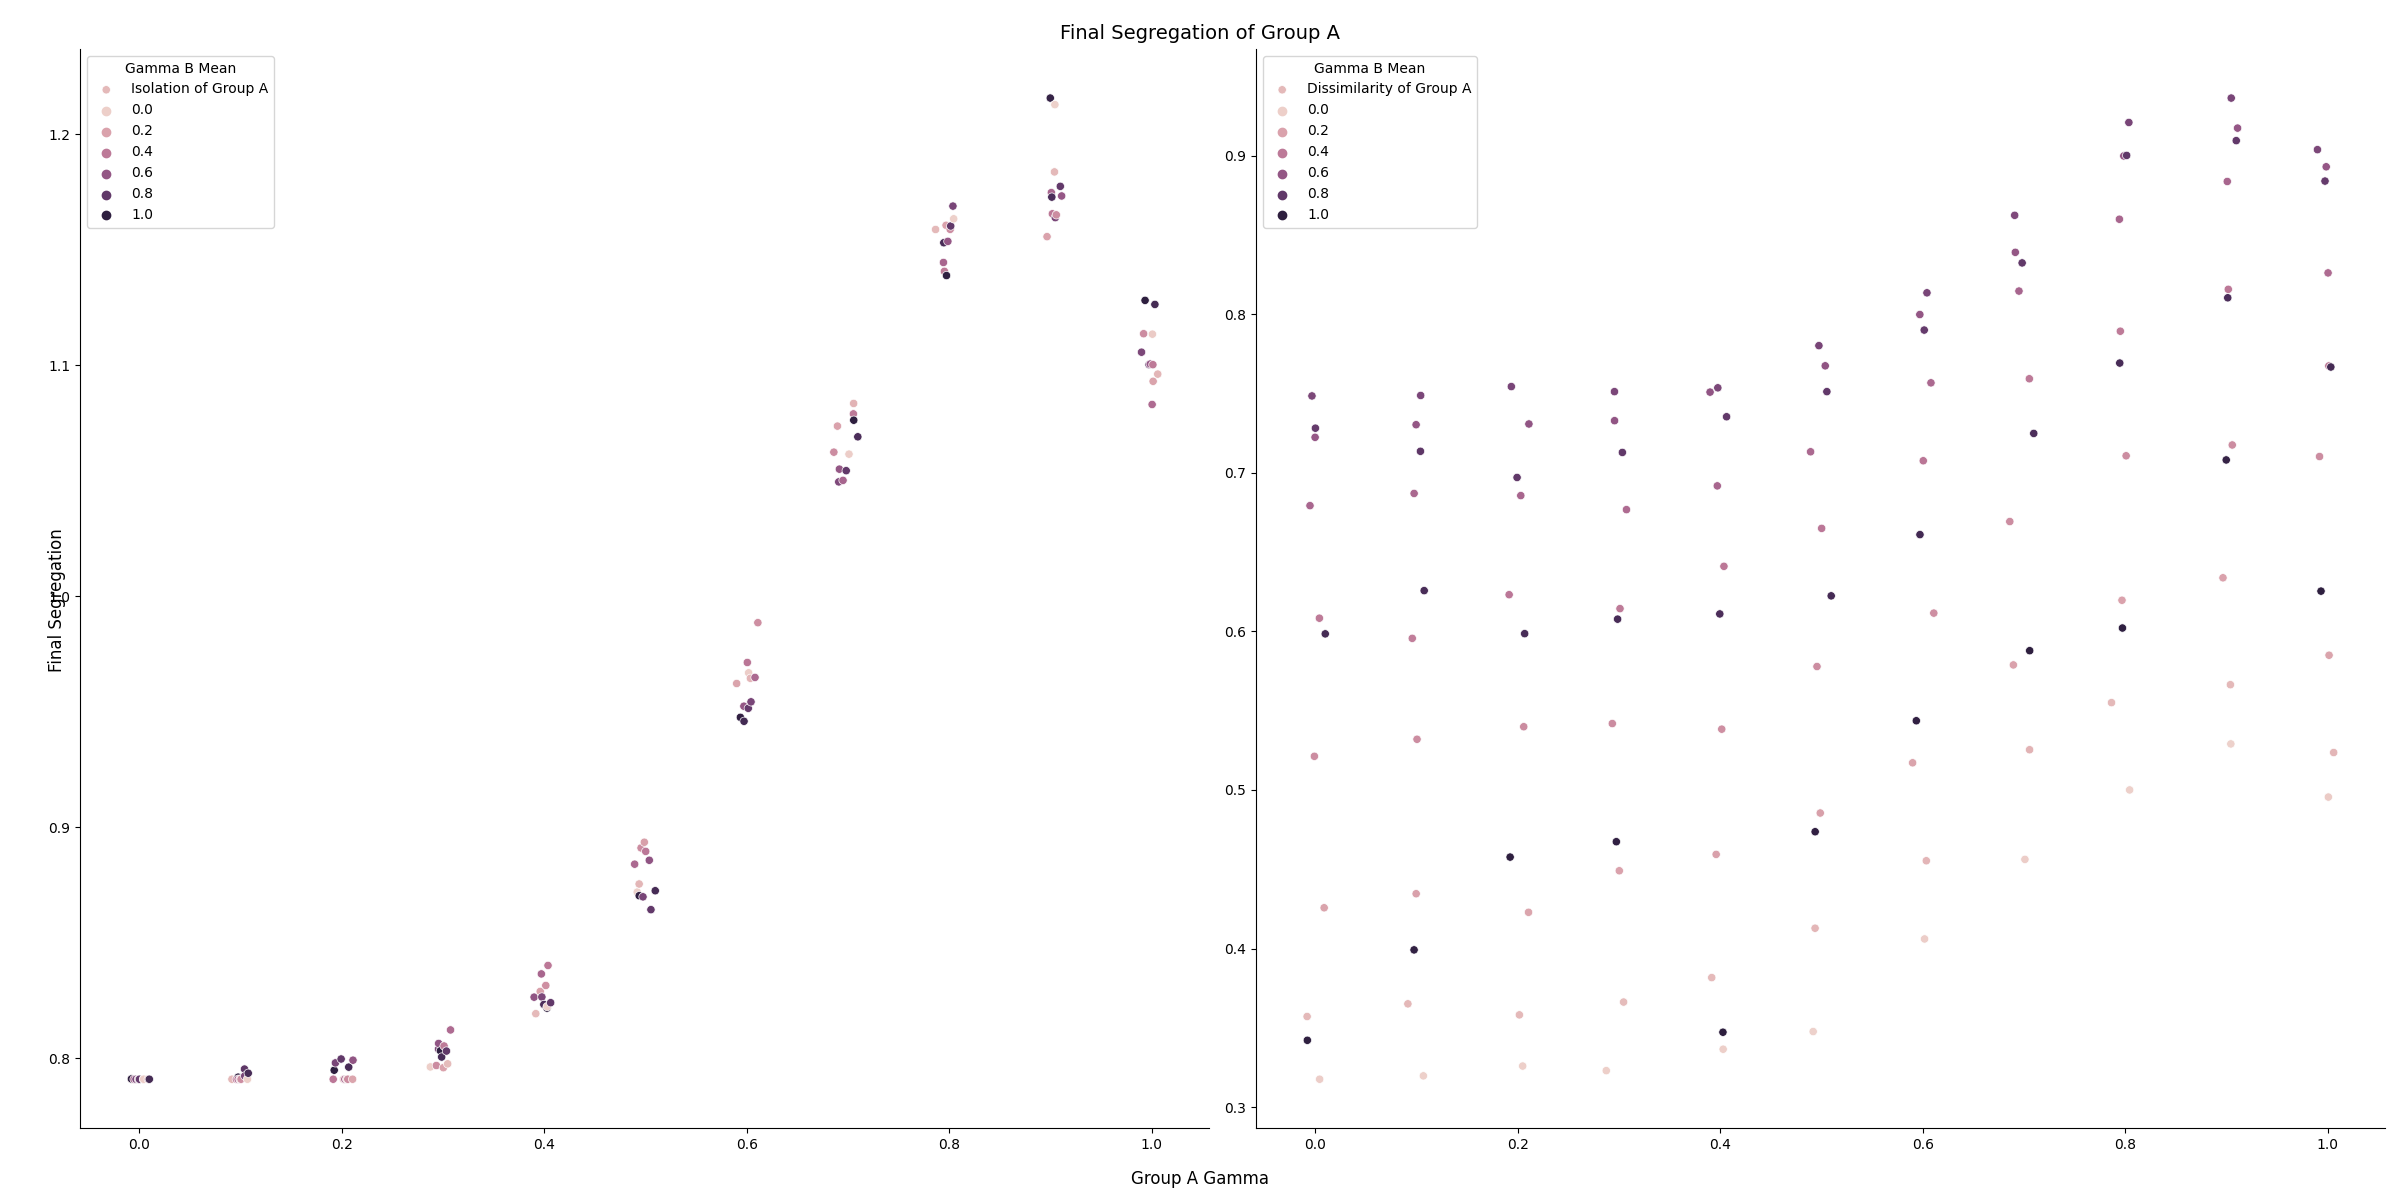
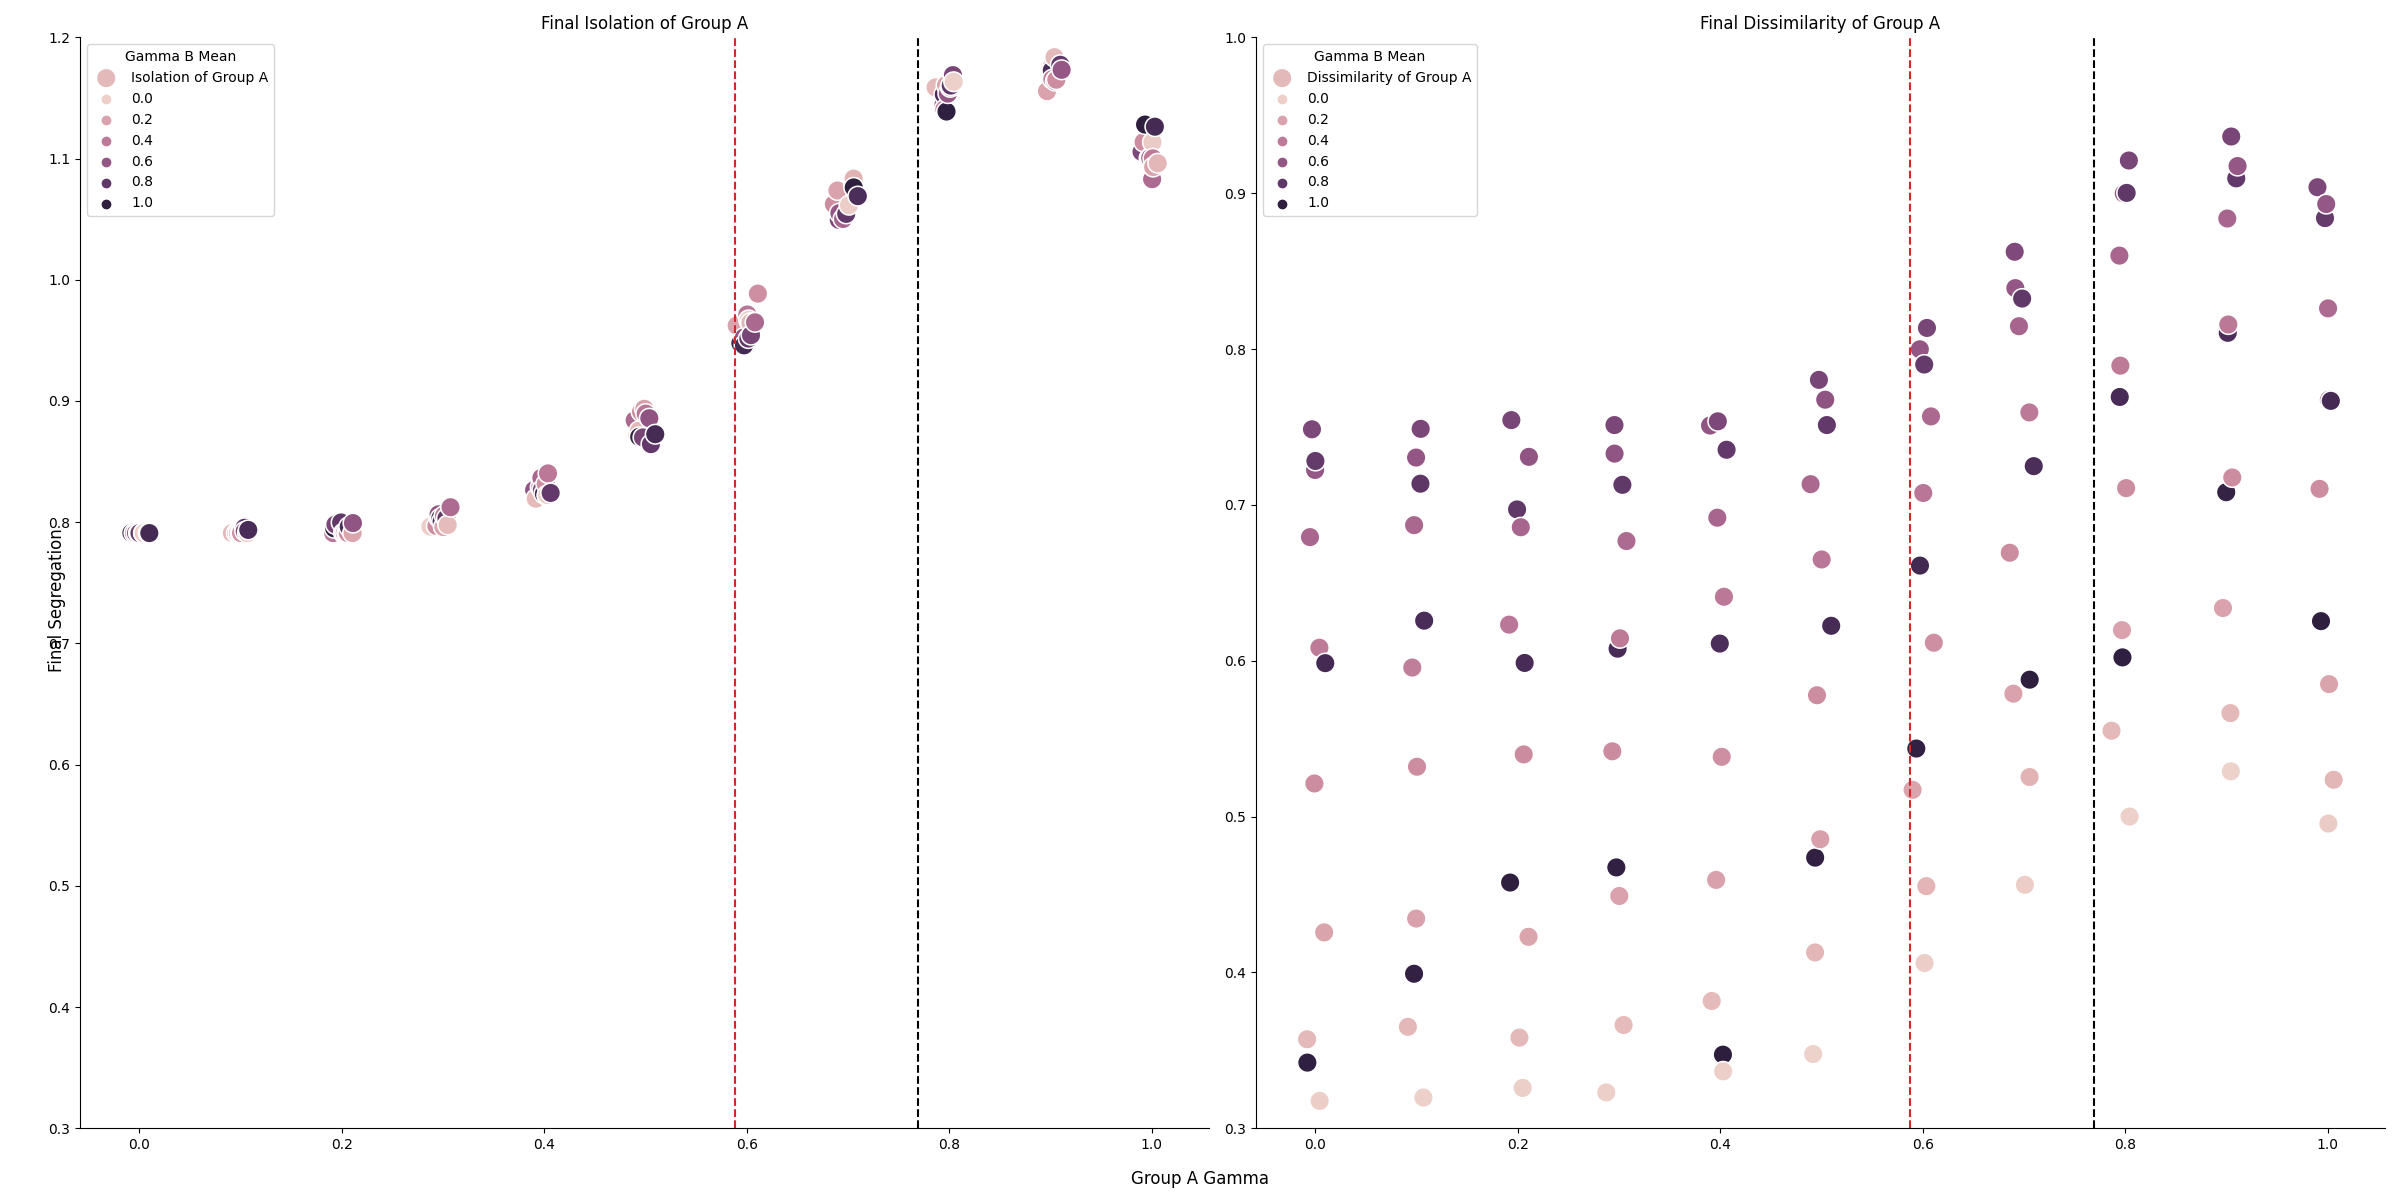
Added some more simulation plots

diff --git a/final_plots.py b/final_plots.py
@@ -1,6 +1,7 @@
 #%%
 
 import matplotlib
+from matplotlib import tight_layout
 import matplotlib.style
 import matplotlib.pyplot as plt
 import numpy as np
@@ -84,8 +85,8 @@ def plot_employer(res: pd.DataFrame, group: str = "alphas", savepath: Optional[s
 
 # %%
 
-plot_employer(employer, "alphas", "final_figs")
-plot_employer(employer, "betas", "final_figs")
+# plot_employer(employer, "alphas", "final_figs")
+# plot_employer(employer, "betas", "final_figs")
 # %%
 
 def find_closest(value: float, a: np.ndarray) -> float:
@@ -95,7 +96,8 @@ def find_closest(value: float, a: np.ndarray) -> float:
 def plot_final_segregation(
     res: pd.DataFrame, 
     group: str = "alphas", 
-    savepath: Optional[str] = None
+    savepath: Optional[str] = None,
+    **plot_kwargs
 ) -> plt.Figure:
 
     other_group = "alphas" if group == "betas" else "betas"
@@ -112,7 +114,8 @@ def plot_final_segregation(
         res[f"{group_letter}_final_isolation"],
         hue=res[f"Gamma {other_group_letter.capitalize()} Mean"],
         ax=axes[0],
-        label=f"Isolation of Group {group_letter.capitalize()}"
+        label=f"Isolation of Group {group_letter.capitalize()}",
+        **plot_kwargs
     )
 
     sns.scatterplot(
@@ -120,14 +123,27 @@ def plot_final_segregation(
         res[f"{group_letter}_final_dissimilarity"],
         hue=res[f"Gamma {other_group_letter.capitalize()} Mean"],
         ax=axes[1],
-        label=f"Dissimilarity of Group {group_letter.capitalize()}"
+        label=f"Dissimilarity of Group {group_letter.capitalize()}",
+        **plot_kwargs
     )
 
+    axes[0].set_ylim(0.3, 1.2)
+    axes[1].set_ylim(0.3, 1)
+    survey_mean = 0.4918 if group == "betas" else 0.5879
+    group_prop = 244/(811 + 244) if group == "betas" else 811/(244 + 811)
+
     for ax in axes:
+        ax.axvline(survey_mean, linestyle="dashed", color="tab:red")
+        ax.axvline(group_prop, linestyle="dashed", color="black")
         ax.set_xlabel("")
         ax.set_ylabel("")
     
-    fig.suptitle(f"Final Segregation of Group {list(group.capitalize())[0]}", fontsize=14)
+    axes[0].set_title(f"Final Isolation of Group {group_letter.capitalize()}")
+    axes[1].set_title(f"Final Dissimilarity of Group {group_letter.capitalize()}")
+
+    
+
+
     fig.supxlabel(f"Group {group_letter.capitalize()} Gamma")
     fig.supylabel("Final Segregation")
 
@@ -143,6 +159,6 @@ def plot_final_segregation(
     else:
         return fig
 
-plot_final_segregation(employee, "alphas", "final_figs")
-plot_final_segregation(employee, "betas", "final_figs")
+plot_final_segregation(employee, "alphas", "final_figs", s=200)
+plot_final_segregation(employee, "betas", "final_figs", s=200)
 # %%

diff --git a/segregation_experiments.py b/segregation_experiments.py
@@ -124,12 +124,23 @@ step_down_exps = [
 
 env1 = Environment(**exp1)
 
+env1 = Environment(**{
+        "num_firms": 100,
+        "capacities": 150,
+        "alphas": 1,
+        "betas": 1,
+        "num_group_a": len(a_class),
+        "num_group_b": len(b_class),
+        "gammas_a": np.random.normal(pop_prop_a, gamma_std_a, len(a_class)),
+        "gammas_b": np.random.normal(pop_prop_b, gamma_std_b, len(b_class)),
+    })
+
 env1.random_assignment()
 env1.plot_network(firm_attrs=False, title="Round 0", spring = 3, node_size=100)
-env1.fig.savefig(os.path.join("simulation_figs", "round_0.png"), facecolor="white", transparent=False)
+env1.fig.savefig(os.path.join("simulation_figs", "realistic_round_0.png"), facecolor="white", transparent=False)
 
 for round in range(20):
     env1.simulate(rounds=1)
     env1.plot_network(firm_attrs=False, title=f"Round {round + 1}", spring=3, node_size=100)
-    env1.fig.savefig(os.path.join("simulation_figs", f"round_{round + 1}.png"), facecolor="white", transparent=False)
+    env1.fig.savefig(os.path.join("simulation_figs", f"realistic_round_{round + 1}.png"), facecolor="white", transparent=False)
 
